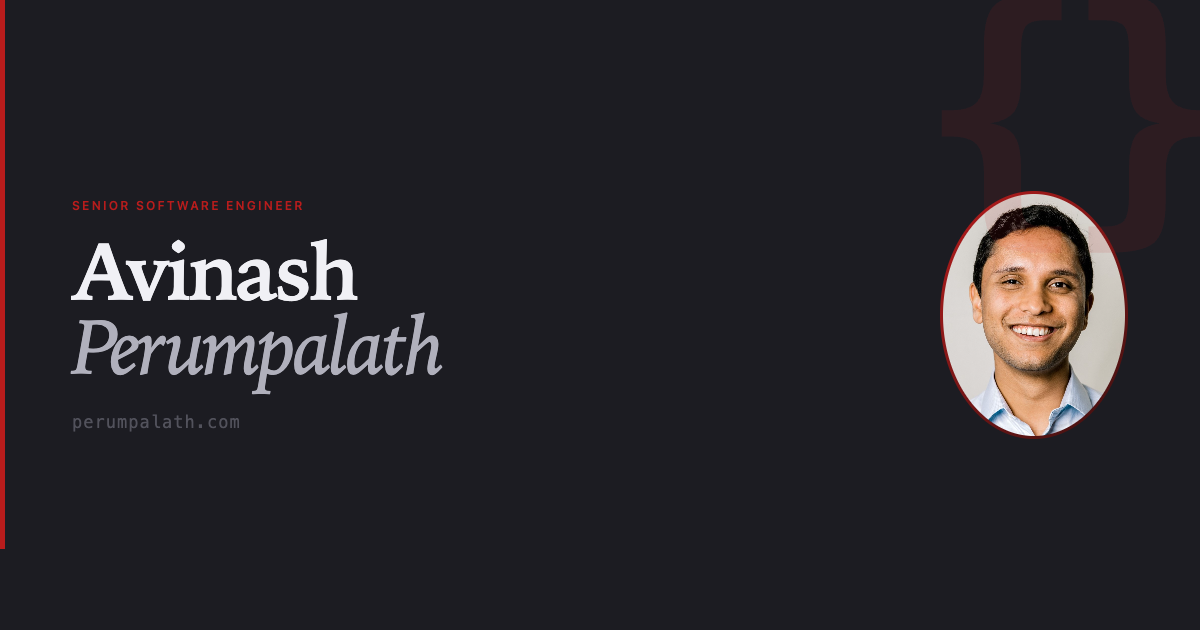
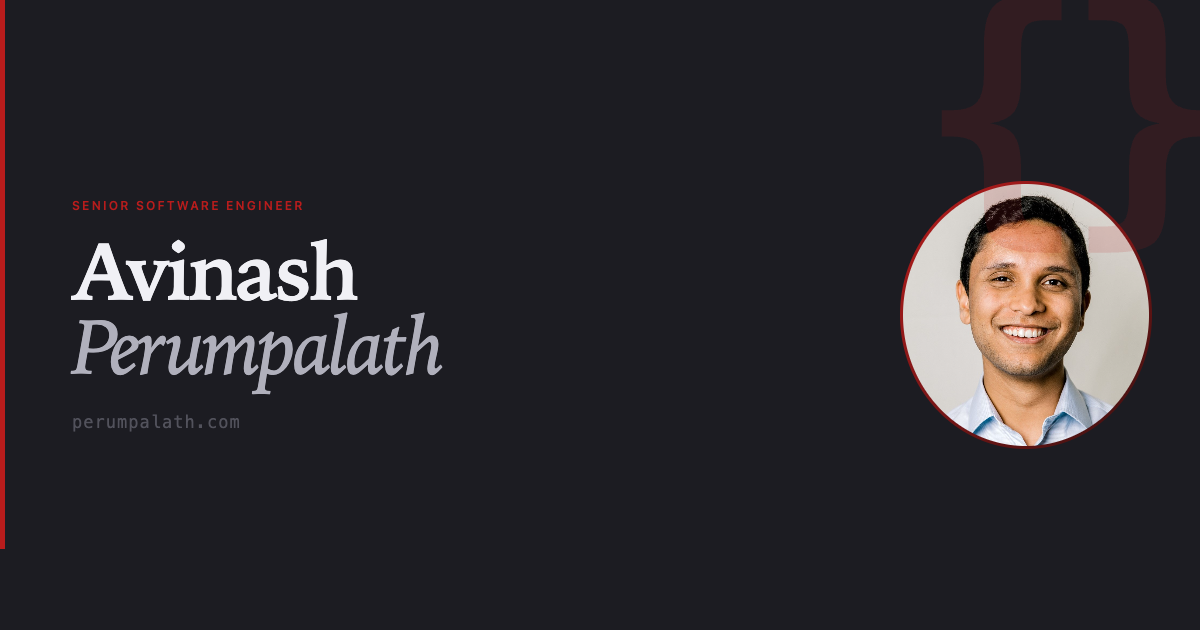
Vanguard location cleanup and OG card tweaks
- Move Charlotte, NC to Vanguard company header, remove per-role locations
- Remove Malvern, PA from intern role
- OG card: larger headshot, shifted left, {} slightly more opaque

Changed region(s): [[0.74, 0.2714, 0.9867, 0.7238]]

diff --git a/index.html b/index.html
@@ -606,15 +606,15 @@
       <div class="job">
         <div class="job-top">
           <a class="company-link" href="https://corporate.vanguard.com/content/corporatesite/us/en/corp/why-vanguard/who-we-are/index.html" target="_blank" rel="noopener">The Vanguard Group</a>
+          <div class="job-top-right">
+            <div class="job-loc">Charlotte, NC</div>
+          </div>
         </div>
 
         <div style="margin-top: 0.6rem;">
           <div class="sub-role-top">
             <div class="job-title" style="margin-bottom:0;">Application Engineer II</div>
-            <div class="sub-role-right">
-              <span class="job-period">Jun 2020 – Jan 2022</span>
-              <div class="job-loc">Charlotte, NC</div>
-            </div>
+            <span class="job-period">Jun 2020 – Jan 2022</span>
           </div>
           <ul class="bullets">
             <li>Led migration of the Investment Strategy Group's on-premises MATLAB parallel cluster and financial models to AWS.</li>
@@ -627,10 +627,7 @@
         <div class="sub-role">
           <div class="sub-role-top">
             <div class="job-title" style="margin-bottom:0;">Application Engineer I</div>
-            <div class="sub-role-right">
-              <span class="job-period">Jun 2018 – Jun 2020</span>
-              <div class="job-loc">Charlotte, NC</div>
-            </div>
+            <span class="job-period">Jun 2018 – Jun 2020</span>
           </div>
           <ul class="bullets">
             <li>Deployed ingestion clusters for importing investment data into AWS, enabling analytics for business users via EMR clusters.</li>
@@ -641,10 +638,7 @@
         <div class="sub-role">
           <div class="sub-role-top">
             <div class="job-title" style="margin-bottom:0;">Application Engineer — Intern</div>
-            <div class="sub-role-right">
-              <span class="job-period">May 2017 – Aug 2017</span>
-              <div class="job-loc">Malvern, PA</div>
-            </div>
+            <span class="job-period">May 2017 – Aug 2017</span>
           </div>
           <ul class="bullets">
             <li>Automated common Bloomberg Terminal processes using Blue Prism, streamlining trader workflows.</li>

diff --git a/og-card.html b/og-card.html
@@ -86,7 +86,7 @@
       font-size: 280px;
       font-weight: 700;
       color: #b81c1c;
-      opacity: 0.11;
+      opacity: 0.14;
       letter-spacing: -0.08em;
       pointer-events: none;
       user-select: none;
@@ -95,17 +95,17 @@
 
     /* Photo */
     .photo-wrap {
-      width: 260px;
+      width: 300px;
       flex-shrink: 0;
-      padding-right: 72px;
+      padding-right: 48px;
       display: flex;
       align-items: center;
       justify-content: center;
     }
 
     .photo-ring {
-      width: 248px;
-      height: 248px;
+      width: 268px;
+      height: 268px;
       border-radius: 50%;
       padding: 3px;
       background: linear-gradient(135deg, #b81c1c 0%, #3a1010 100%);
